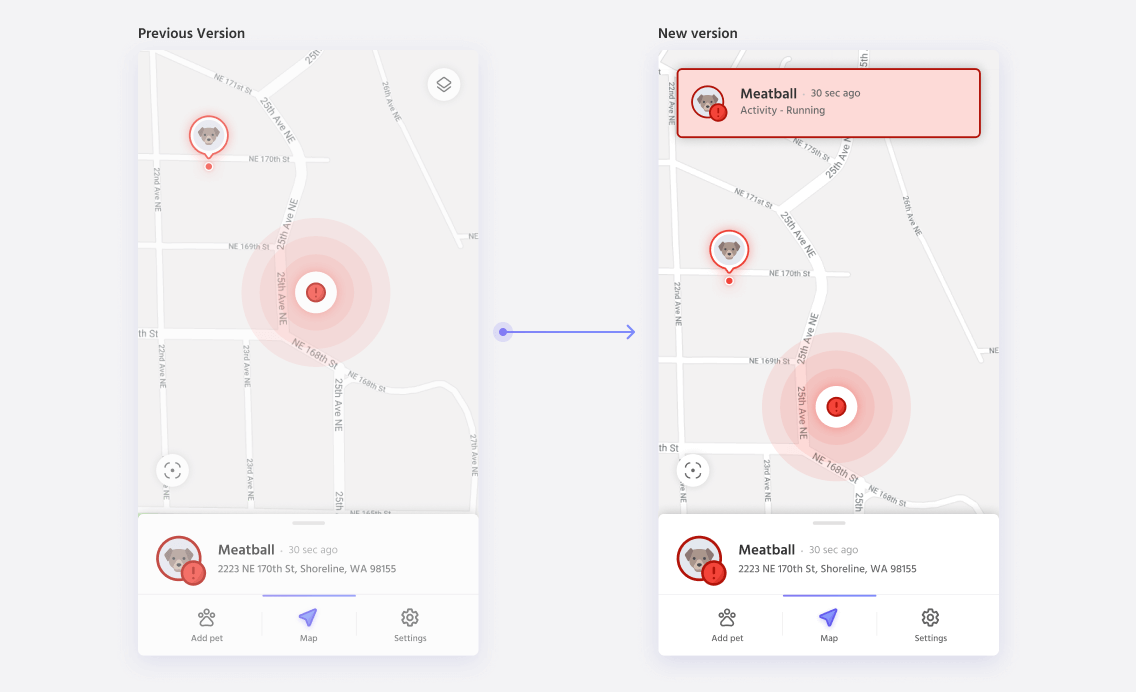
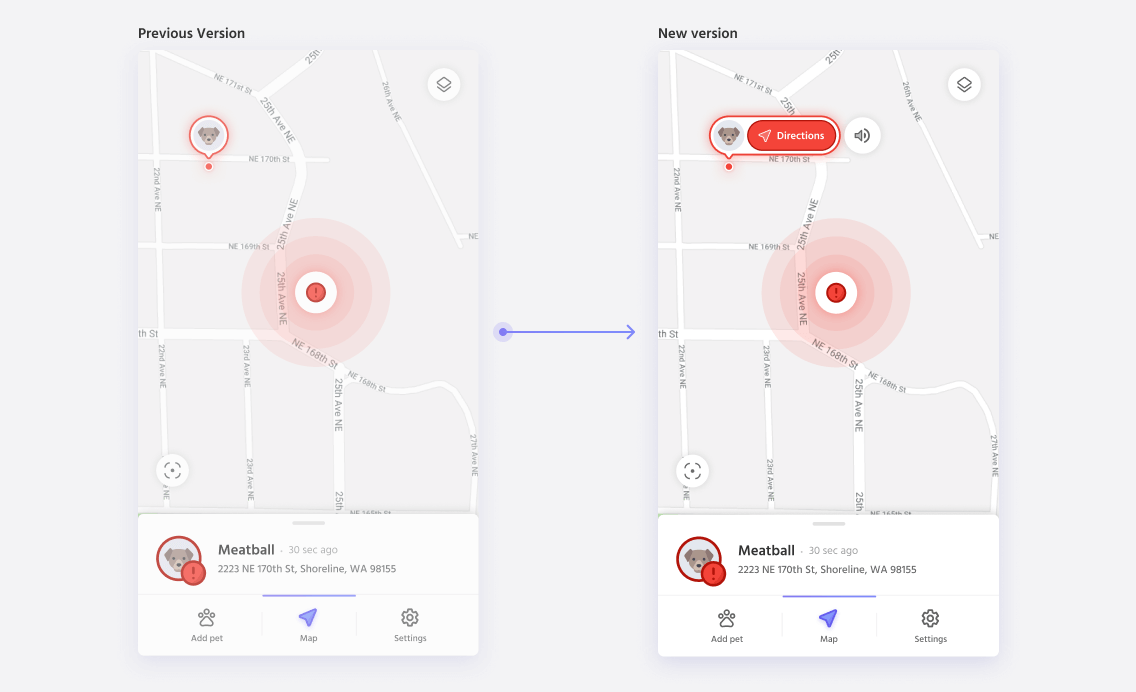
Updated bark up iteration

diff --git a/bark-up.html b/bark-up.html
@@ -183,7 +183,7 @@
             <p class="font-italic">Opportunities & pain points</p>
             <ul>
               <li>We discovered a need for a walking mode - being able to track your distance and location </li>
-              <li>Post-alert notification were sometimes missed (alert being triggered when the user is away form their phone) </li>
+              <li>Direction to their pet after an alert has been triggered isn't obvious enough</li>
             </ul>
           </div>
         </div>
@@ -195,7 +195,7 @@
             <h2>Iteration</h2>
             <hr class="hr-sm">
             <p>The good news was that what've build worked and solved the main user needs. But that doesn't mean that everything is perfect or that we can't improve the product. The observation gave us more insights for future iterations.</p>
-            <p><span class="font-weight-bold">Improved notifications</span>: some key notifications were missed by the user - too similar to the usual. They weren't used to the app yet, so they couldn't tell the color change.</p>
+            <p><span class="font-weight-bold">Improved directions</span>: after getting an alert, and checking the app, it's not obvious what the next step is. Users were confused what to do, and where to go.</p>
             <div class="img-content"><img src="images/bark-up/bark-up-iteration-1.png" alt="" class="w-100 mb-4">
               <p><span class="font-weight-bold">Walking mode</span>: some users suggested a walking mode, where they could tack their routes with their pets. They had to use a running app to do that and were wishing that a more "canine" version would be available.</p>
               <div class="img-content"><img src="images/bark-up/bark-up-iteration-2.png" alt="" class="w-100 mb-3">
